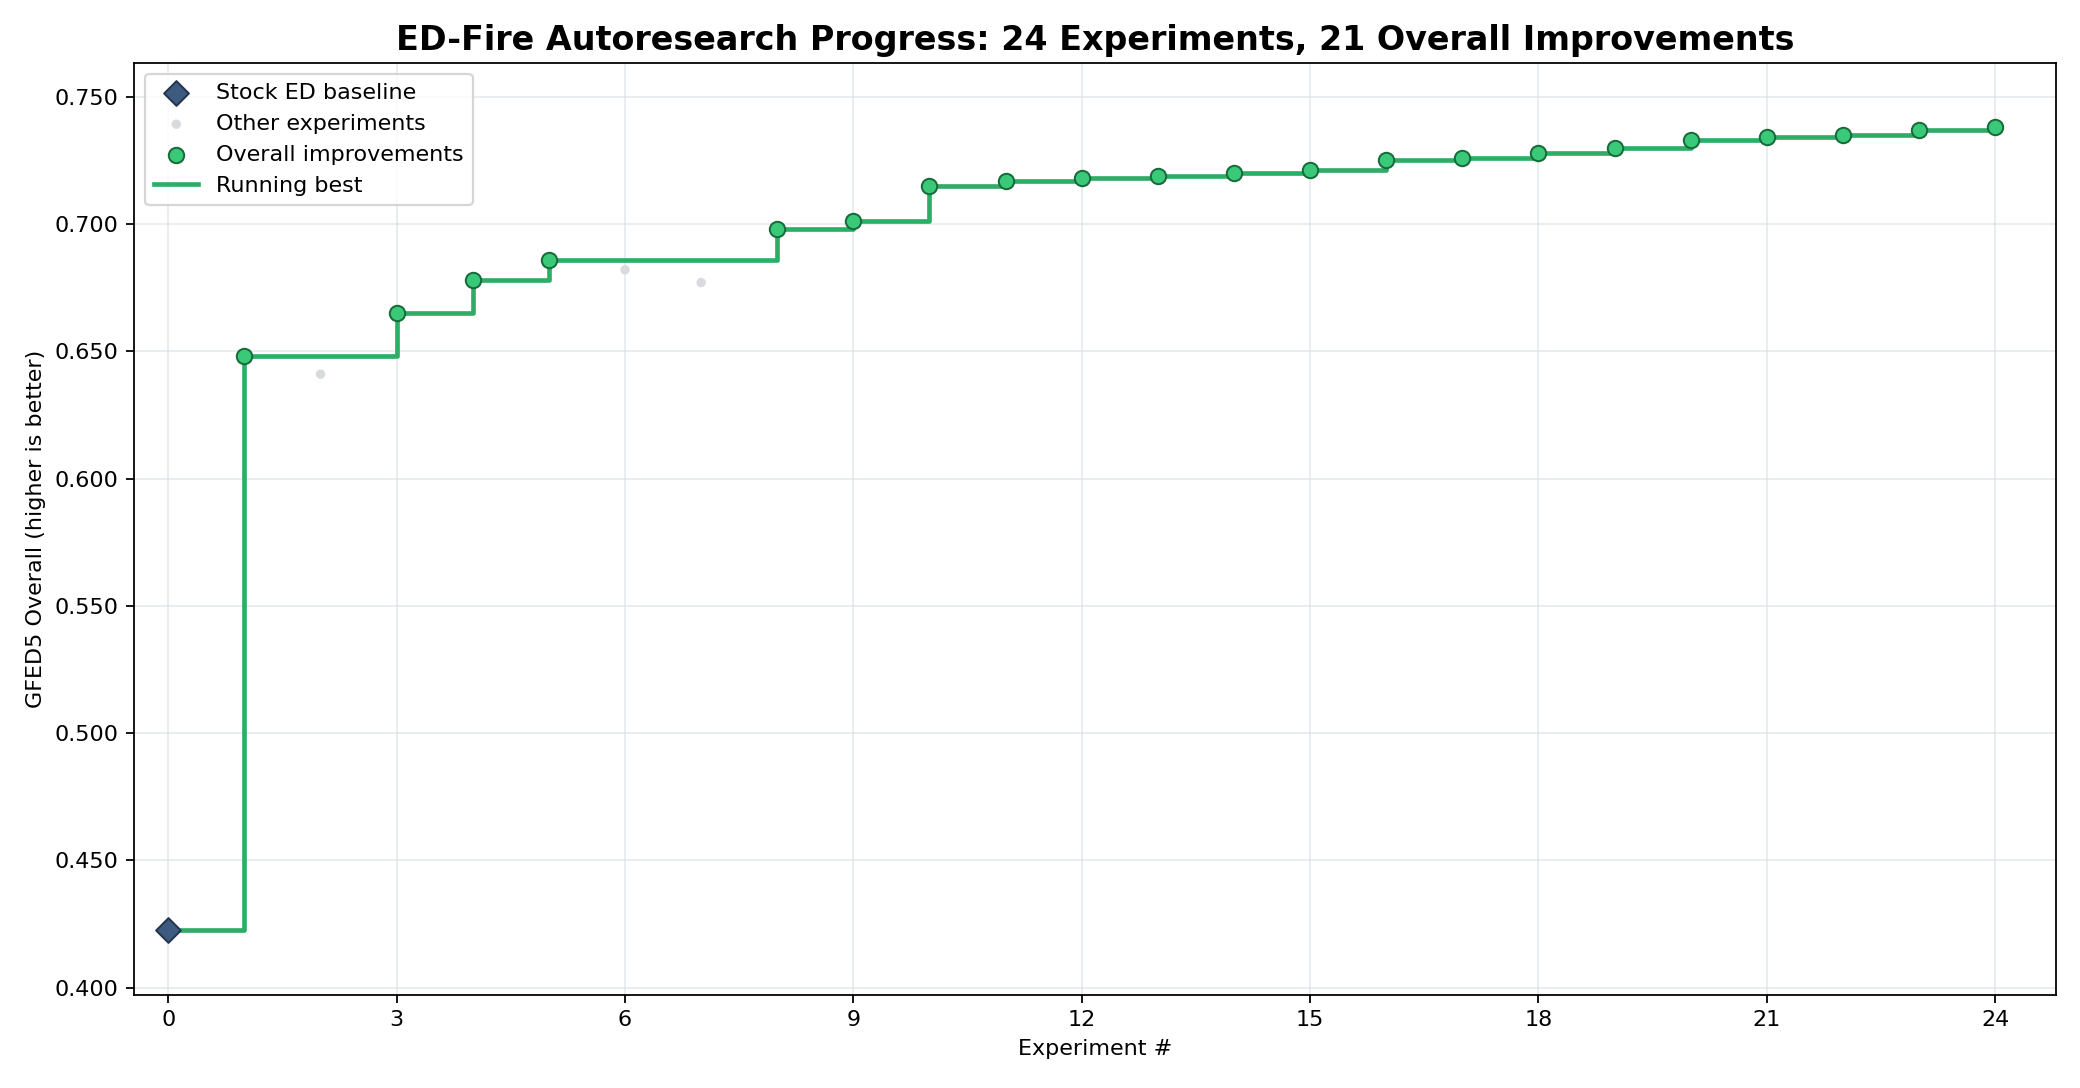
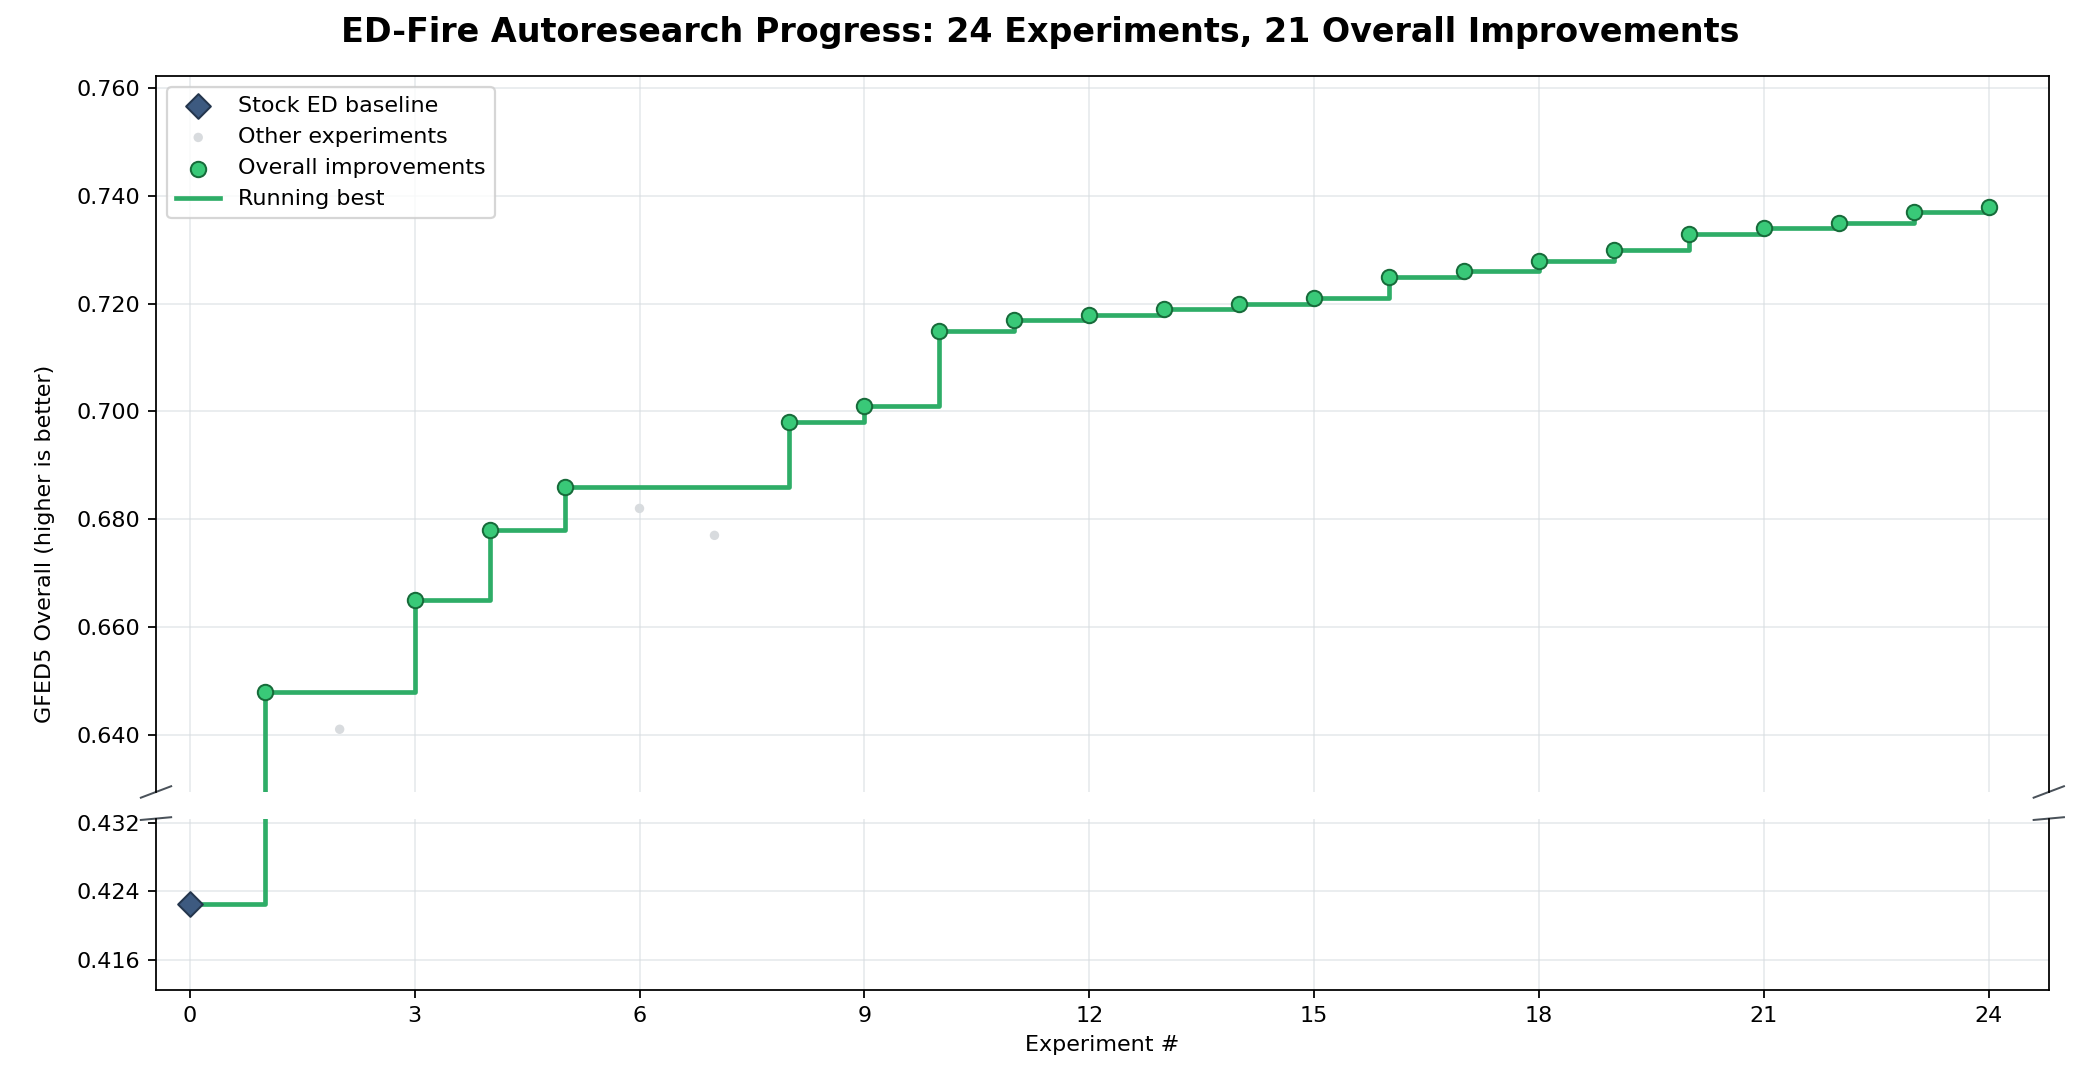
Restore detail with broken progress axis

diff --git a/scripts/progress.py b/scripts/progress.py
@@ -84,10 +84,17 @@ def render(results: Path, output: Path) -> bool:
     progress_steps = np.arange(0, len(rows) + 1)
     progress_scores = np.concatenate(([STOCK_ED_BASELINE_OVERALL], running_best))
 
-    figure, axis = plt.subplots(figsize=(13, 6.8))
+    figure, (detail_axis, baseline_axis) = plt.subplots(
+        2,
+        1,
+        sharex=True,
+        figsize=(13, 6.8),
+        gridspec_kw={"height_ratios": (4.8, 1.15), "hspace": 0.06},
+    )
     figure.patch.set_facecolor("white")
-    axis.set_facecolor("white")
-    axis.scatter(
+    detail_axis.set_facecolor("white")
+    baseline_axis.set_facecolor("white")
+    detail_axis.scatter(
         experiments[other_experiments],
         scores[other_experiments],
         s=18,
@@ -97,7 +104,7 @@ def render(results: Path, output: Path) -> bool:
         label="Other experiments",
         zorder=1,
     )
-    axis.step(
+    detail_axis.step(
         progress_steps,
         progress_scores,
         where="post",
@@ -106,7 +113,15 @@ def render(results: Path, output: Path) -> bool:
         label="Running best",
         zorder=2,
     )
-    axis.scatter(
+    baseline_axis.step(
+        progress_steps,
+        progress_scores,
+        where="post",
+        color="#2EAD67",
+        linewidth=2.1,
+        zorder=2,
+    )
+    detail_axis.scatter(
         experiments[improvements],
         running_best[improvements],
         s=48,
@@ -116,7 +131,7 @@ def render(results: Path, output: Path) -> bool:
         label="Overall improvements",
         zorder=3,
     )
-    axis.scatter(
+    baseline_axis.scatter(
         [0],
         [STOCK_ED_BASELINE_OVERALL],
         s=62,
@@ -129,36 +144,90 @@ def render(results: Path, output: Path) -> bool:
     )
     count = len(rows)
     kept = int(improvements.sum())
-    axis.set_title(
+    figure.suptitle(
         f"ED-Fire Autoresearch Progress: {count} Experiments, "
         f"{kept} Overall Improvements",
         fontsize=15,
         fontweight="semibold",
+        y=0.985,
     )
-    axis.set_xlabel("Experiment #")
-    axis.set_ylabel("GFED5 Overall (higher is better)")
-    axis.xaxis.set_major_locator(MaxNLocator(integer=True, min_n_ticks=2))
-    axis.yaxis.set_major_formatter(FormatStrFormatter("%.3f"))
-    axis.set_xlim(-0.45, max(2, len(rows)) + 0.8)
-    chart_min = min(STOCK_ED_BASELINE_OVERALL, float(scores.min()))
-    chart_max = max(STOCK_ED_BASELINE_OVERALL, float(scores.max()))
-    spread = max(0.006, chart_max - chart_min)
-    lower_margin = max(0.008, spread * 0.08)
-    upper_margin = max(0.008, spread * 0.08)
-    axis.set_ylim(
-        max(0.0, chart_min - lower_margin),
-        min(1.0, chart_max + upper_margin),
+    baseline_axis.set_xlabel("Experiment #")
+    figure.text(
+        0.017,
+        0.5,
+        "GFED5 Overall (higher is better)",
+        rotation="vertical",
+        va="center",
     )
-    axis.grid(color="#D7DDE1", linewidth=0.7, alpha=0.65)
-    handles, labels = axis.get_legend_handles_labels()
-    order = [3, 0, 2, 1]
-    axis.legend(
-        [handles[index] for index in order],
-        [labels[index] for index in order],
-        loc="best",
+
+    detail_spread = max(0.006, float(scores.max() - scores.min()))
+    detail_axis.set_ylim(
+        max(0.0, float(scores.min()) - max(0.004, detail_spread * 0.12)),
+        min(1.0, float(scores.max()) + max(0.008, detail_spread * 0.25)),
+    )
+    baseline_margin = 0.010
+    baseline_axis.set_ylim(
+        max(0.0, STOCK_ED_BASELINE_OVERALL - baseline_margin),
+        min(1.0, STOCK_ED_BASELINE_OVERALL + baseline_margin),
+    )
+    baseline_axis.set_xlim(-0.45, max(2, len(rows)) + 0.8)
+    baseline_axis.xaxis.set_major_locator(MaxNLocator(integer=True, min_n_ticks=2))
+    baseline_axis.yaxis.set_major_locator(MaxNLocator(nbins=3))
+
+    for plot_axis in (detail_axis, baseline_axis):
+        plot_axis.yaxis.set_major_formatter(FormatStrFormatter("%.3f"))
+        plot_axis.grid(color="#D7DDE1", linewidth=0.7, alpha=0.65)
+
+    detail_axis.spines["bottom"].set_visible(False)
+    baseline_axis.spines["top"].set_visible(False)
+    detail_axis.tick_params(axis="x", which="both", bottom=False, labelbottom=False)
+    baseline_axis.tick_params(axis="x", which="both", top=False)
+
+    break_size = 0.008
+    break_style = {"color": "#4A525A", "clip_on": False, "linewidth": 0.9}
+    detail_axis.plot(
+        (-break_size, +break_size),
+        (-break_size, +break_size),
+        transform=detail_axis.transAxes,
+        **break_style,
+    )
+    detail_axis.plot(
+        (1 - break_size, 1 + break_size),
+        (-break_size, +break_size),
+        transform=detail_axis.transAxes,
+        **break_style,
+    )
+    baseline_axis.plot(
+        (-break_size, +break_size),
+        (1 - break_size, 1 + break_size),
+        transform=baseline_axis.transAxes,
+        **break_style,
+    )
+    baseline_axis.plot(
+        (1 - break_size, 1 + break_size),
+        (1 - break_size, 1 + break_size),
+        transform=baseline_axis.transAxes,
+        **break_style,
+    )
+
+    detail_handles, detail_labels = detail_axis.get_legend_handles_labels()
+    baseline_handles, baseline_labels = baseline_axis.get_legend_handles_labels()
+    handles_by_label = dict(
+        zip(detail_labels + baseline_labels, detail_handles + baseline_handles, strict=True)
+    )
+    legend_order = [
+        "Stock ED baseline",
+        "Other experiments",
+        "Overall improvements",
+        "Running best",
+    ]
+    detail_axis.legend(
+        [handles_by_label[label] for label in legend_order],
+        legend_order,
+        loc="upper left",
         frameon=True,
     )
-    figure.tight_layout()
+    figure.subplots_adjust(left=0.075, right=0.985, top=0.93, bottom=0.09)
 
     output.parent.mkdir(parents=True, exist_ok=True)
     partial = output.with_name(f".{output.name}.partial")
